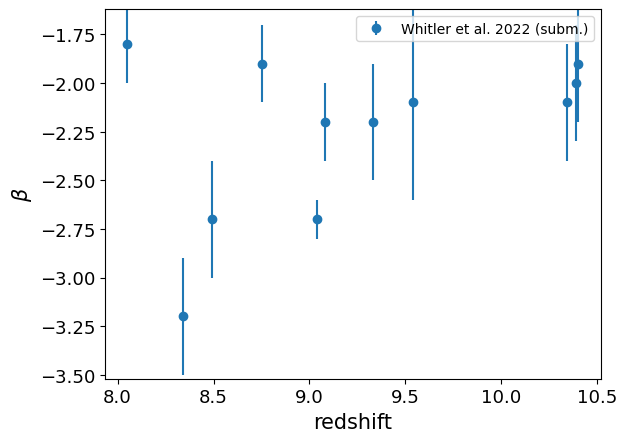
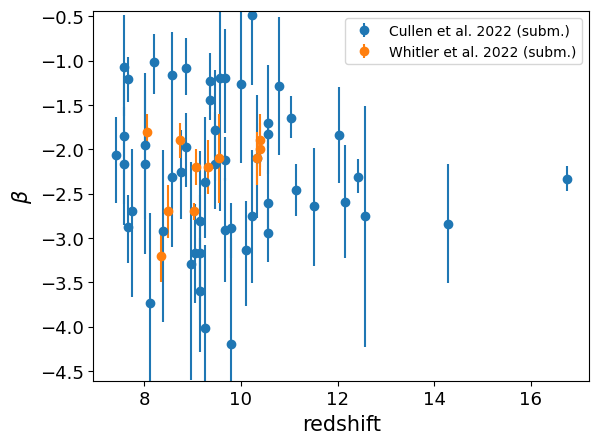
updated Field class and relative documentation

Changed region(s): [[0.0, 0.0, 0.9917, 0.9706], [0.7212, 0.3824, 0.7513, 0.6176]]

diff --git a/corecon/FieldClass.py b/corecon/FieldClass.py
@@ -7,7 +7,9 @@ from .DataEntryClass import DataEntry
 # Field CLASS #
 ###############
 
-class _Field(dict):
+class Field(dict):
+    """Class representing all constraints on a single physical quantity.
+    """
     
     def __init__(self, *arg, **kw):
         super().__init__(*arg, **kw)
@@ -60,7 +62,7 @@ class _Field(dict):
         if zmin > zmax:
             raise ValueError("zmax cannot be smaller than zmin, you provided zmin = "+str(zmin)+" and zmax="+str(zmax))
 
-        dict_zslice = _Field()
+        dict_zslice = Field()
         dict_zslice.field_symbol      = self.field_symbol      
         dict_zslice.field_description = self.field_description 
 
@@ -105,7 +107,7 @@ class _Field(dict):
         :rtype: dict.
         '''
 
-        dict_extracted = _Field()
+        dict_extracted = Field()
         dict_extracted.field_symbol      = self.field_symbol      
         dict_extracted.field_description = self.field_description 
 
@@ -137,7 +139,7 @@ class _Field(dict):
         :rtype: dict.
         '''
 
-        dict_lls = _Field()
+        dict_lls = Field()
         dict_lls.field_symbol      = self.field_symbol      
         dict_lls.field_description = self.field_description 
 
@@ -170,7 +172,7 @@ class _Field(dict):
         :rtype: dict.
         '''
 
-        dict_uls = _Field()
+        dict_uls = Field()
         dict_uls.field_symbol      = self.field_symbol      
         dict_uls.field_description = self.field_description 
 

diff --git a/corecon/__init__.py b/corecon/__init__.py
@@ -46,7 +46,7 @@ import sys
 import datetime
 
 from .DataEntryClass import DataEntry
-from .FieldClass import _Field
+from .FieldClass import Field
 from .check_updates import _check_data_updates
 
 #check for updates in data
@@ -64,7 +64,7 @@ __fields__ = list( __fields_info__.keys() )
 
 __dicts__ = {}
 for f in __fields__:
-    __dicts__[f] = _Field()
+    __dicts__[f] = Field()
     __dicts__[f].field_symbol      = __fields_info__[f]["symbol"]
     __dicts__[f].field_description = __fields_info__[f]["description"]
 
@@ -315,6 +315,9 @@ def get_data_entry_template():
     return(fstring)
 
 def update_data():
+    """Checks for updates in the available constraints (not of the package itself!) and 
+    downloads them if available. Requires internet connection to the CoReCon's repository.
+    """
     _check_data_updates(force=True)
 
 

diff --git a/docs/conf.py b/docs/conf.py
@@ -38,7 +38,7 @@ master_doc = 'index'
 # Add any Sphinx extension module names here, as strings. They can be
 # extensions coming with Sphinx (named 'sphinx.ext.*') or your custom
 # ones.
-extensions = ['sphinx.ext.autodoc']
+extensions = ['sphinx.ext.autodoc']#, 'sphinxcontrib.fulltoc']
 
 # Add any paths that contain templates here, relative to this directory.
 templates_path = ['_templates']
@@ -63,4 +63,3 @@ exclude_patterns = ['_build', 'Thumbs.db', '.DS_Store']
 
 #Mock modules import
 #autodoc_mock_imports = ["numpy"]
-

diff --git a/corecon/DataEntryClass.py b/corecon/DataEntryClass.py
@@ -12,7 +12,7 @@ from .InternalFunctions import _insert_blank_spaces, _get_str_from_array1d, _get
 
 
 class DataEntry:
-    """Class representing a single constraint set.
+    """Class representing a single constraint.
     """
 
     def __init__(self, 

diff --git a/docs/tutorial.rst b/docs/tutorial.rst
@@ -30,9 +30,7 @@ If you have already installed CoReCon and wish to upgrade it to the latest versi
 CoReCon stores data in an individual DataEntry class for each data source. The available fields are described
 in :ref:`DataEntryTemplate`, while the available utility functions are described below.
 
-DataEntry classes are stored in dictionaries, sorted based on the physical quantity they describe, whose keys are
-the source paper short citation. Available quantities are listed in the section :ref:`AvailableCoinstraints`, 
-and can also be retrieved from python using:
+Available quantities are listed in the section :ref:`AvailableCoinstraints`, and can also be retrieved from python using:
 
 .. code-block:: python
 
@@ -43,11 +41,14 @@ load, using (for e.g. the quasar luminosity function, shorthanded to qlf):
 
 .. code-block:: python
 
-   qlf = crc.get("qlf")
-   
-   print(qlf.field_description)
-   > ...
+   qlf = crc.get("quasar_luminosity_function")
 
+The returned object (`qlf` in the example above) is a custom class derived from python dictionaries. As such, this `Field` class
+can be treated as a python dictionary with some additional attributes and functions. For instance, the individual entries can be 
+obtained by a simple query of the dictionary keys, e.g.
+
+.. code-block:: python
+   
    for k in qlf.keys():
        print(k)
 
@@ -62,29 +63,26 @@ load, using (for e.g. the quasar luminosity function, shorthanded to qlf):
    > Giallongo et al. 2019
    > Ross et al. 2013
 
-All keys are string. The class attribute field_description (which is NOT part of the dict keys) contains a string with a breif description (using matplotlib's Math Text) of
-the quantity used in values, err_up, err_down, including their units (if present). 
+In addition, it provides descriptors for the physical quantity represented and functions that make easy to manipulate and filter the 
+provided constraints. The class attribute field_description (which is NOT part of the dict keys) 
+contains a string with a breif description (using matplotlib's Math Text) of the quantity used in values, err_up, err_down, including their units (if present). 
 
-It is also possible to retrieve all available dictionaries, using:
+.. code-block:: python
+
+   print(qlf.field_description)
+   > ...
+
+It is also possible to retrieve all available constraints using:
 
 .. code-block:: python
 
    all_dicts = crc.get_all_dicts()
 
-which returns a dictionary, whose keys are the available field. Retrieving a key produces the same result as using crc.get() with
+which returns a dictionary, whose keys are the available field. Each key is associated to the result of invoking crc.get() with
 the same key.
 
-In case you want to add your own dataset, this can be done simply adding a properly-formatted file into one of the data/ subdirectories.
-You can find more information on the format in :ref:`DataEntryTemplate`. For convenience, such template can be retrieved directly from
-CoReCon using:
-
-.. code-block:: python
-
-   template_string = crc.get_data_entry_template()
-
-which returns the template as a string.
-
-Finally, each data entry is an istance of the custom DataEntry class, and its field can be retrieved simply using e.g.:
+Each dictionary entry in a `Field` class describes a single constraint (i.e. a single scientific publication/dataset), packaged in a `DataEntry` class.
+Its field can be retrieved simply using e.g.:
 
 .. code-block:: python
 
@@ -96,29 +94,51 @@ The available fields are described in :ref:`DataEntryTemplate`. Finally, for con
 
     extra_names = qlf['McGreer et al. 2013'].extra_data
 
+In case you want to add your own dataset, this can be done simply adding a properly-formatted file into one of the data/ subdirectories.
+You can find more information on the format in :ref:`DataEntryTemplate`. For convenience, such template can be retrieved directly from
+CoReCon using:
+
+.. code-block:: python
+
+   template_string = crc.get_data_entry_template()
+
+which returns the template as a string.
+
 
 2. Utility functions
 ^^^^^^^^^^^^^^^^^^^^
-CoReCon provides also some basic utilities functions. 
+CoReCon provides also some basic utilities functions. These are split between the basic module and the `Field` class.
 
 Available constraints within a redshift range can be retrieved with:
 
 .. code-block:: python
 
-   qlf_zrange = crc.filter_by_redshift_range("qlf", 5.0, 6.0)
+    qlf = crc.get("quasar_luminosity_function")
+    qlf_zrange = qlf.filter_by_redshift_range(6, 7)    
 
 Similarly, the data available can be filtered to return only upper or lower limits, using:
 
 .. code-block:: python
 
-   qlf_ll = crc.get_lower_limits("qlf")
-   qlf_ul = crc.get_upper_limits("qlf")
+    qlf_ll = qlf.get_lower_limits()
+    qlf_ul = qlf.get_upper_limits()
 
 In the same way, the constraints can be filtered based on the value of their *extracted* keyword, using:
 
 .. code-block:: python
 
-   qlf_zrange = crc.filter_by_extracted("qlf", True)
+    qlf_extracted = crc.filter_by_extracted("qlf", True)
+
+In all these filter functions, the returned object is a copy of the original `Field` class except for the fact that 
+it only contains the entries satisfying the filtering condition. This allows for easy concatenation, e.g.
+
+.. code-block:: python
+
+    qlf = crc.get("quasar_luminosity_function")
+    qlf_zrange = qlf.filter_by_redshift_range(6, 7)    
+    qlf_zrange_ll = qlf_zrange.get_lower_limits()
+
+See :ref:`FunctionsDocs` for a complete list of available filters.
 
 In each DataEntry, upper and lower limits can be swapped (e.g. to be used in derived quantity, for instance 1-ionised_fraction) 
 using:
@@ -147,7 +167,7 @@ Error on limits can be set using:
 
    qlf['Kulkarni et al. 2019'].set_lim_errors(0.1, frac_of_values=True)
 
-The documentation for CoReCon public functions can be found at :ref:`Docs`.
+The documentation for CoReCon public functions can be found at :ref:`FunctionsDocs`.
 
 3. Complete example
 ^^^^^^^^^^^^^^^^^^^
@@ -173,7 +193,7 @@ Finally, we provide here a simple head-to-tail example of usage, namely to creat
        #if k=="field_description": 
        #    continue 
 
-       #find redshift dimension 
+       #find which axes corresponds to redshift 
        zdim = np.where(ionfr[k].dimensions_descriptors == "redshift")[0][0] 
 
        #get format
@@ -205,3 +225,9 @@ The above script produce the following plot:
 
 .. image:: neutral_fraction_evolution.png
   :width: 800
+ 
+
+.. toctree::
+  :maxdepth: 3
+
+  index

diff --git a/docs/code_docs.rst b/docs/code_docs.rst
@@ -1,4 +1,4 @@
-.. _Docs:
+.. _FunctionsDocs:
 
 Functions Documentation
 ***********************
@@ -11,12 +11,22 @@ These functions work on the whole module (e.g. filtering, etc.)
 .. automodule:: corecon
    :members:
 
-DataEntryClass
+
+Field class
 ==============
 
-These functions work on a DataEntry level, i.e. on single constraint entries.
+This class represents all constraints available concerning a single physical quantity. It is derived from python's 
+`dictionary` class, and provides additional field and data-manipulation functionalities.
 
-.. autoclass:: corecon.DataEntryClass.DataEntry
+.. autoclass:: corecon.Field
+   :members:
+
+DataEntry class
+==============
+
+This class represents a single constraint (or set of) coming from a single source (usually a scientific publication).
+
+.. autoclass:: corecon.DataEntry
    :members:
 
 

diff --git a/docs/datarst/UV_slope.rst b/docs/datarst/UV_slope.rst
@@ -8,6 +8,12 @@ Slope of the galaxy UV log flux density
 Data sources
 ^^^^^^^^^^^^
 
+|Cullen et al. 2022 (subm.)|
+
+.. |Cullen et al. 2022 (subm.)| raw:: html
+
+   <a href="https://arxiv.org/pdf/2208.04914.pdf" target="_blank">Cullen et al. 2022 (subm.)</a>
+
 |Whitler et al. 2022 (subm.)|
 
 .. |Whitler et al. 2022 (subm.)| raw:: html

diff --git a/docs/index.rst b/docs/index.rst
@@ -40,7 +40,7 @@ For an introduction on how to use CoReCon, check :ref:`Tutorial`.
 
 Function Docs
 """""""""""""
-The documentation for CoReCon public functions can be found at :ref:`Docs`.
+The documentation for CoReCon public functions can be found at :ref:`FunctionsDocs`.
 
 
 .. _AvailableCoinstraints:
